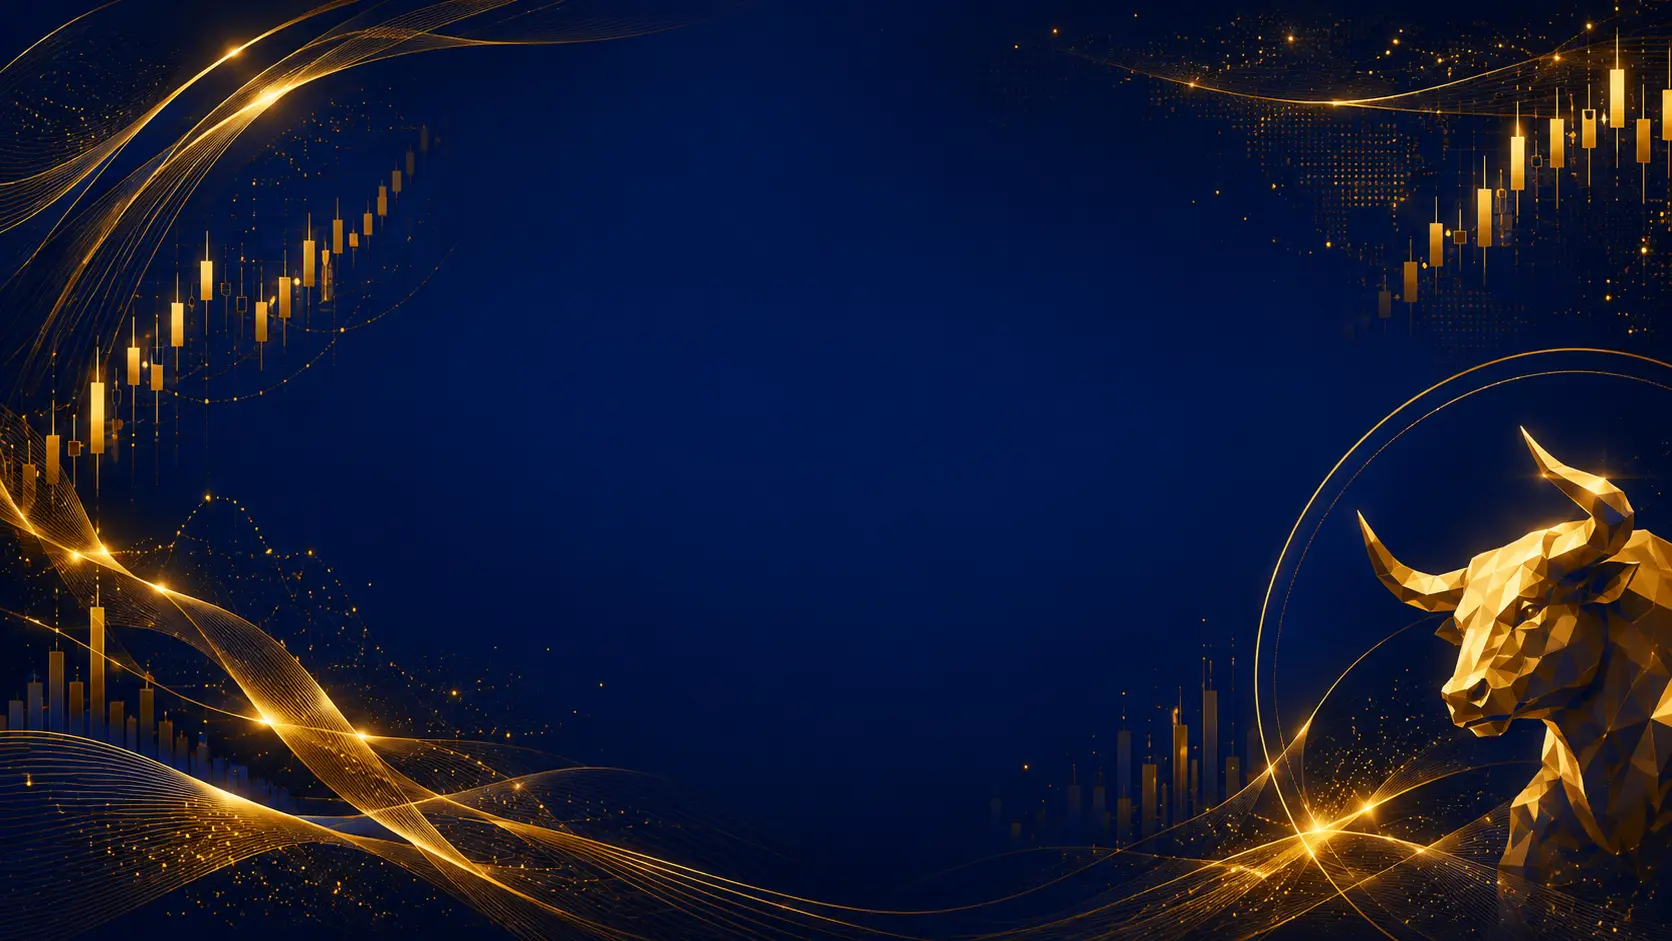
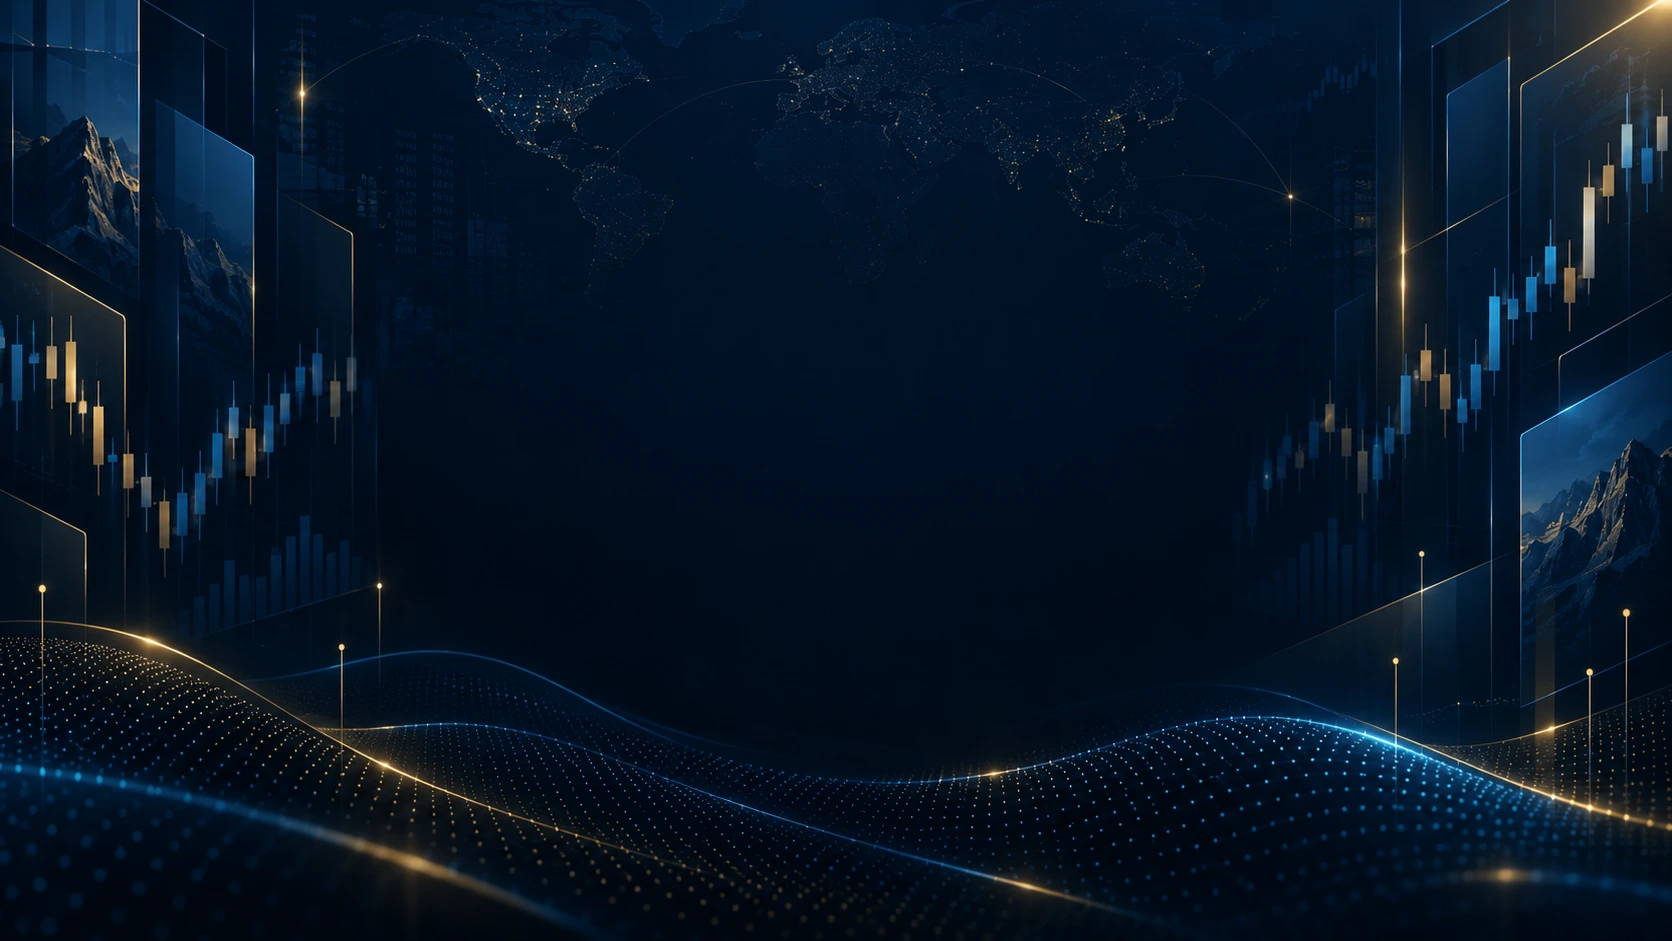
Swap in the new Gold Navy scene background.
Replace gold.webp with the supplied navy/gold market scene and bust the cached URL.

diff --git a/titan-journal/app/globals.css b/titan-journal/app/globals.css
@@ -402,7 +402,7 @@
   --sidebar-accent-alt: #e0bc6a;
   --sidebar-accent-soft: rgba(224, 188, 106, 0.16);
   --sidebar-glow: rgba(224, 188, 106, 0.36);
-  --bg-scene: url("/backgrounds/gold.webp");
+  --bg-scene: url("/backgrounds/gold.webp?v=2");
 }
 
 :root,
